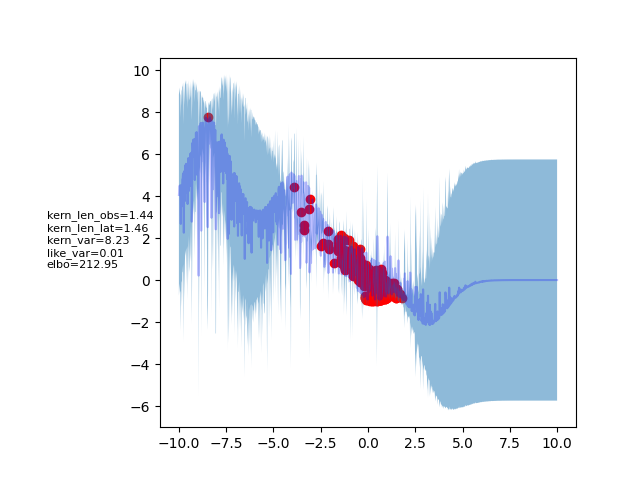
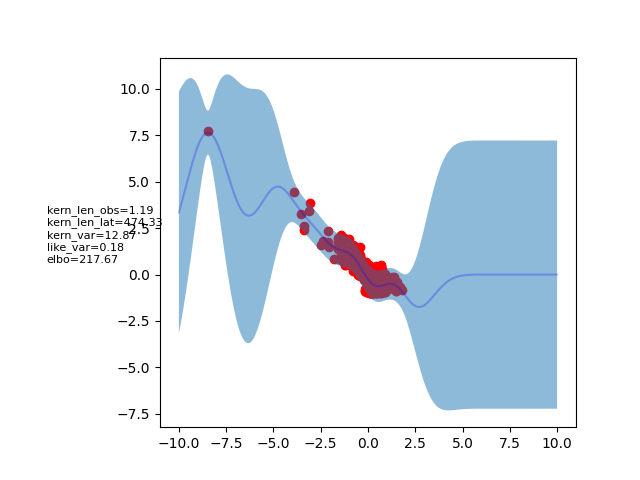
prior variance set to 1

diff --git a/train.py b/train.py
@@ -70,7 +70,7 @@ def train(
         # need a lengthscale for the latent dim as well as for the oberved
         # Lengthscale of observed is slightly larger
         kernel = gpflow.kernels.SquaredExponential(lengthscales=[found_lengthscale] + [found_lengthscale * 0.67])
-        x_prior_var = tf.ones((y.shape[0], latent_dim), dtype=default_float()) * found_lengthscale * 0.07
+        x_prior_var = tf.ones((y.shape[0], latent_dim), dtype=default_float())
     else:
         kernel = gpflow.kernels.SquaredExponential(lengthscales=[kernel_lengthscale])
         X_mean_init = tfp.distributions.Normal(loc=0, scale=1).sample([y.shape[0], latent_dim])
